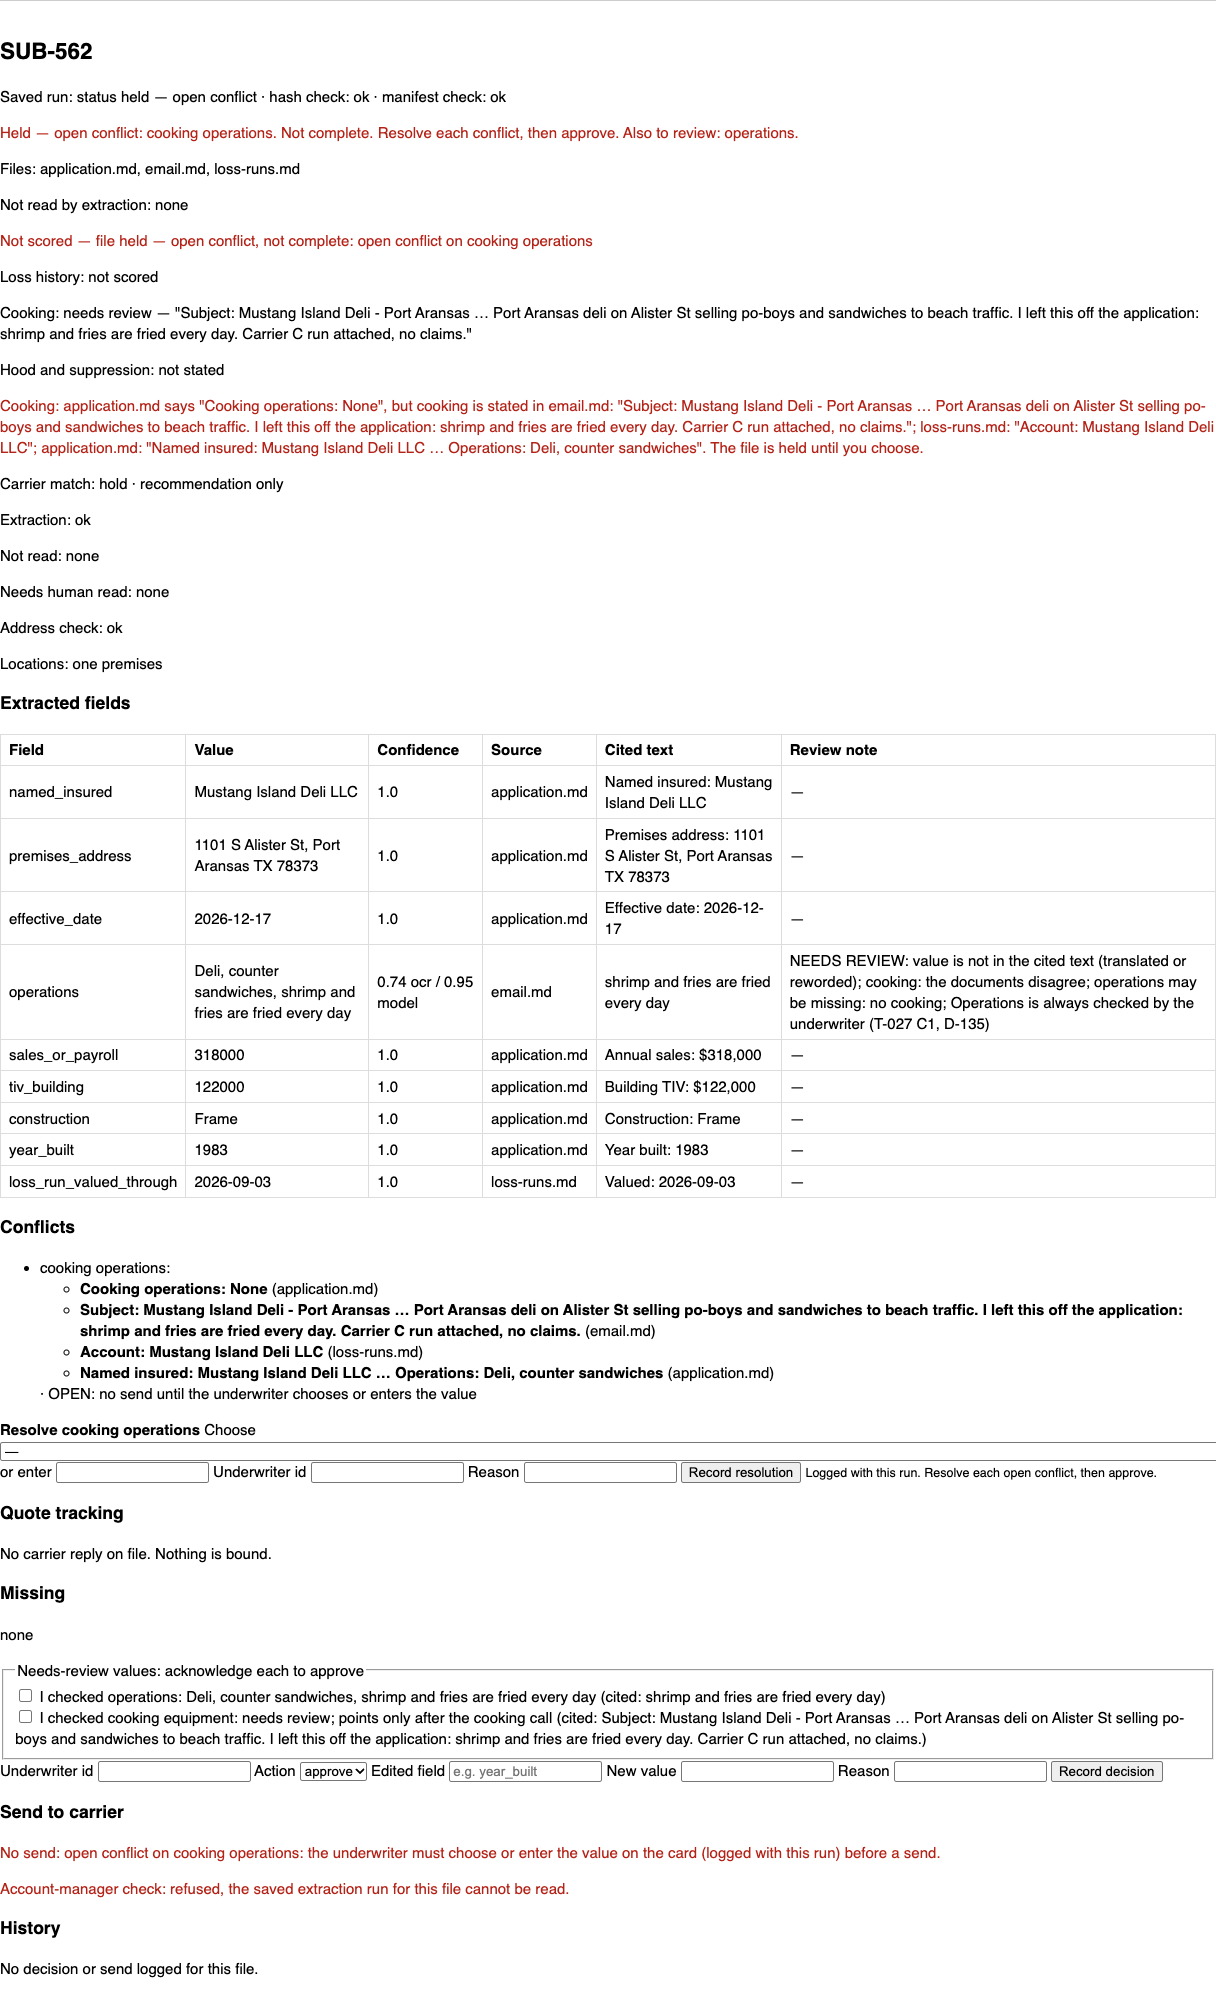
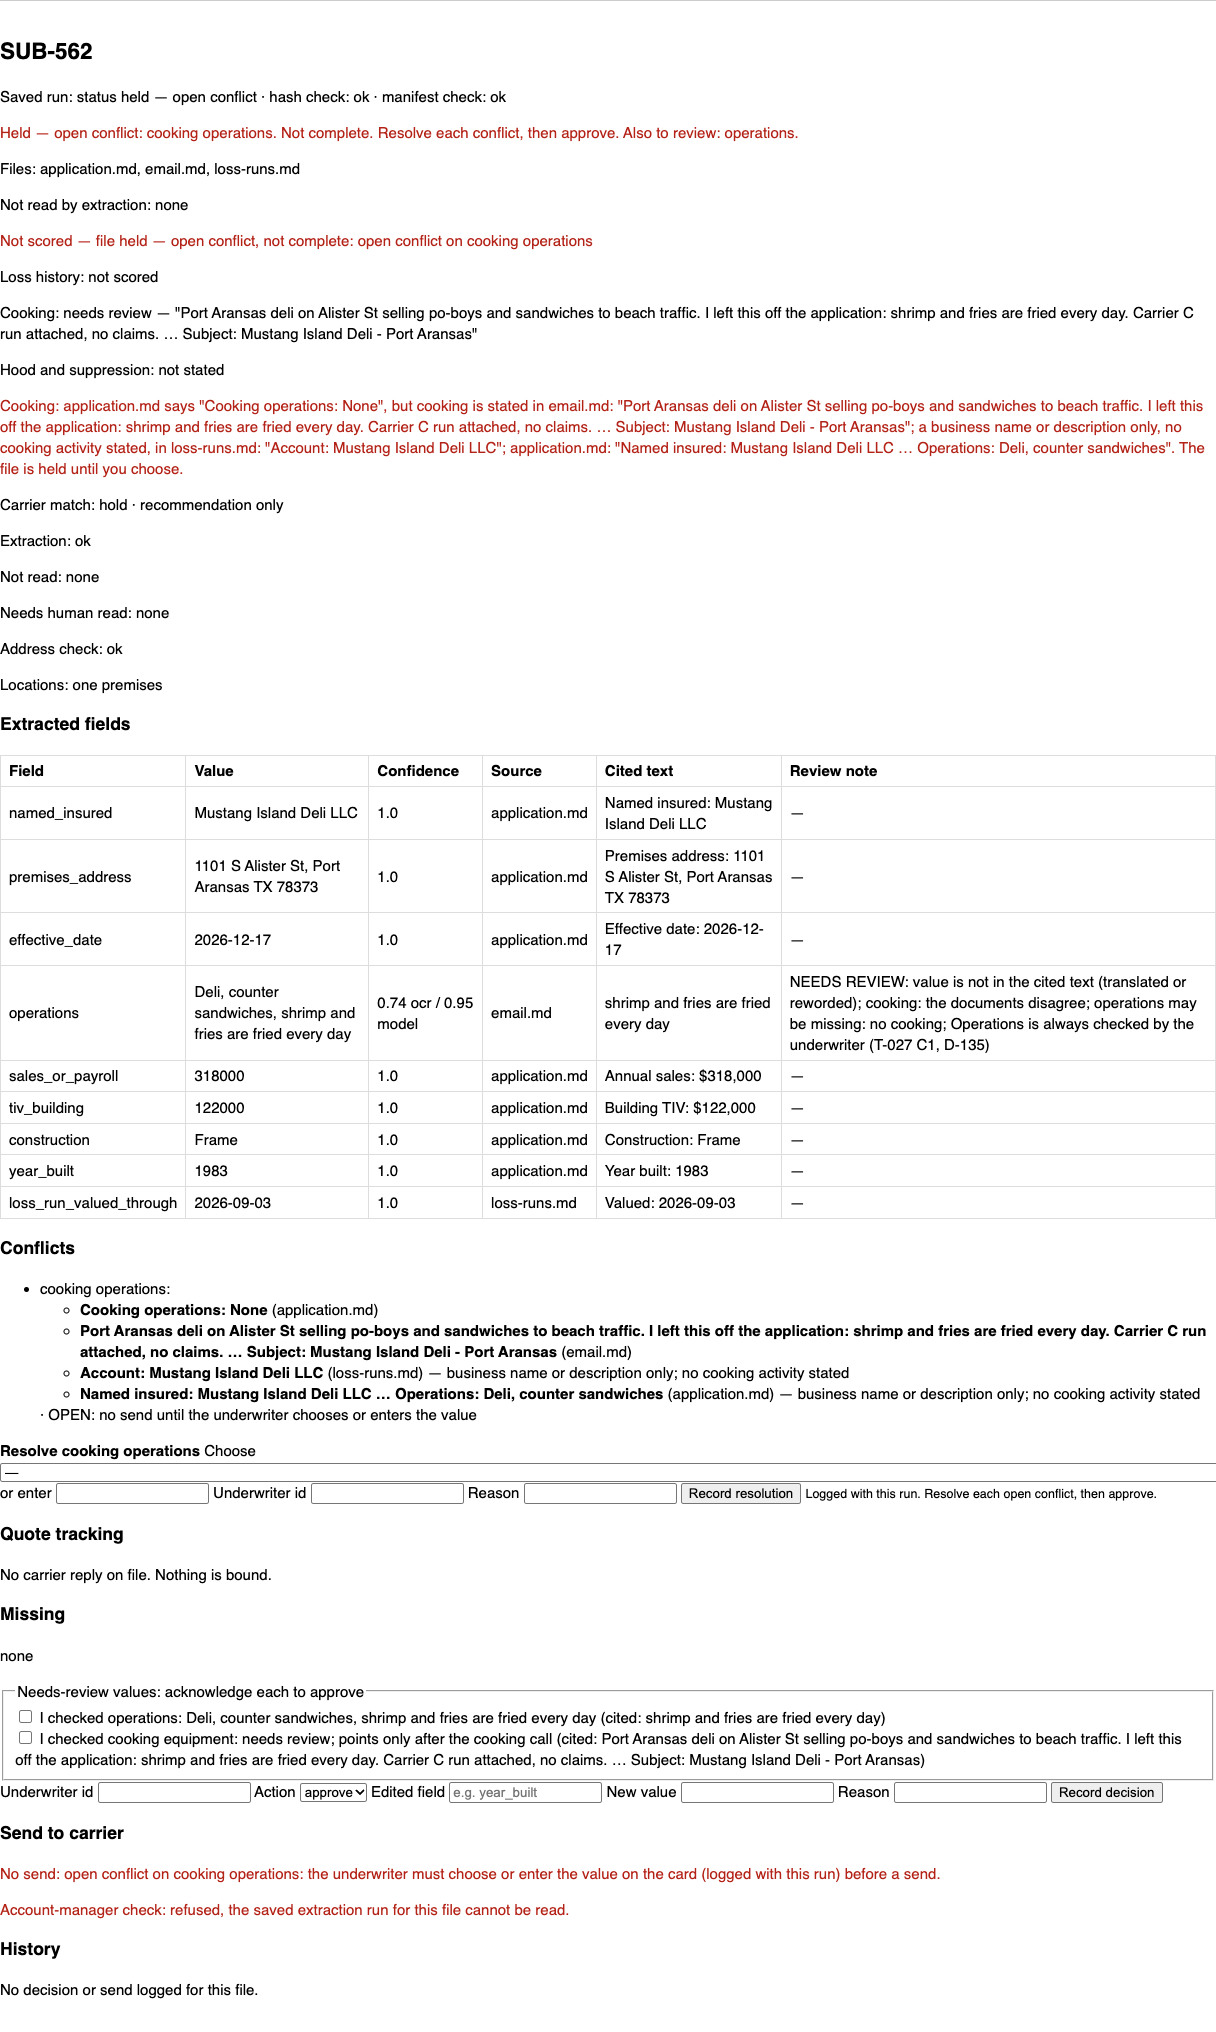
P-086: UI check H1 — name-only cooking quotes labelled 'no cooking activity stated', hazard passage first; screenshots retaken

diff --git a/underwriting_pipeline/ai/prepare.py b/underwriting_pipeline/ai/prepare.py
@@ -1163,6 +1163,22 @@ def _insured_names(name: str | None, texts: dict) -> list[str]:
 
 
 COOKING_QUOTES_MAX = 3  # P-086: quotes per document on a cooking conflict side
+# P-086 (UI check H1): a quote that names a cooking activity or equipment states the hazard; a business name or type alone ("Deli") does not.
+# Labels only: detection, holds and statuses do not read this. ponytail: a prefix list; a name such as "Pizza & Grill LLC" still counts as stated.
+_COOK_ACTIVITY = ("cook", "fry", "frial", "fries", "fried", "frit", "freid", "frei", "grill", "griddl", "broil", "plancha", "parrill", "comal", "stove", "estufa",
+                  "hotplate", "burner", "oven", "horno", "horne", "salamander", "smok", "barbec", "bbq", "barbac", "rotiss", "tandoor", "toast", "skillet", "steamer",
+                  "sous", "warm", "reheat", "bak", "boil", "cocin", "coce", "microwav", "microond", "ansul", "greas", "saut", "simmer", "roast", "brais", "induction",
+                  "crock", "kettle", "asar", "asad", "calent", "calien", "hervi", "fogon", "charcoal", "wok", "hood", "sear", "hob", "range", "kitchen", "galley")
+_COOK_BUSINESS_PHRASES = {"coffee shop", "food service", "food court", "food truck", "food trucks", "we serve", "food and drink", "food and beverage"}
+
+
+def cooking_activity(clause: str) -> bool:
+    """P-086: True when the clause names a cooking activity or equipment, not only a food business name or type."""
+    norm = _COOK_RANGE_SKIP.sub(" ", _cook_norm(clause))
+    phrase = _COOK_PHRASES.search(norm)
+    if phrase and phrase.group(0) not in _COOK_BUSINESS_PHRASES:
+        return True
+    return any(token.startswith(_COOK_ACTIVITY) for token in re.findall(r"[^\W\d_]+", norm))
 COOKING_QUOTE_CHARS = 360  # P-086 (code review): one quote never grows past this; a dense one-line scan is not quoted whole
 
 
@@ -1199,7 +1215,7 @@ def cooking_hits(texts: dict, skip: dict | None = None) -> list[dict]:
                 offset += len(line) + 1
             if hits and hits[-1]["source"] == doc:
                 continue
-        spans, word0 = [], None  # P-086 (D-169): every cooking clause in the document, so the hazard sentence is cited, not only the first word (B-530)
+        spans, strong, word0 = [], [], None  # P-086 (D-169): every cooking clause in the document, so the hazard sentence is cited, not only the first word (B-530)
         for clause in _CLAUSE.finditer(scan):
             word = cooking_word(clause.group(0))
             if not word:
@@ -1209,16 +1225,18 @@ def cooking_hits(texts: dict, skip: dict | None = None) -> list[dict]:
             le = text.find("\n", clause.end())
             le = len(text) if le < 0 else le
             start, end = max(ls, clause.start() - 120), min(le, clause.end() + 120)
+            active = cooking_activity(clause.group(0))
             if spans and start <= spans[-1][1] and max(end, spans[-1][1]) - spans[-1][0] <= COOKING_QUOTE_CHARS:  # overlapping windows join, up to a cap
                 spans[-1] = (spans[-1][0], max(end, spans[-1][1]))
-            elif not spans or start >= spans[-1][1]:
-                spans.append((start, end))
-            else:  # overlaps a full quote: start where it ends, so no text is quoted twice
-                spans.append((spans[-1][1], end))
+                strong[-1] = strong[-1] or active
+            else:
+                spans.append((spans[-1][1], end) if spans and start < spans[-1][1] else (start, end))  # never quote the same text twice
+                strong.append(active)
         if spans:  # still one hit per document (UI check H1); detection is unchanged, only the quote grows
-            shown = spans[:COOKING_QUOTES_MAX]
+            order = [i for i in range(len(spans)) if strong[i]] + [i for i in range(len(spans)) if not strong[i]]  # UI check H1: the hazard sentence first
+            shown = [spans[i] for i in order[:COOKING_QUOTES_MAX]]
             # start/end stay the first quote only, so text[start:end] never covers the uncited lines between quotes (B-365 L1); spans lists each
-            hits.append({"source": doc, "start": shown[0][0], "end": shown[0][1], "spans": shown, "more": len(spans) - len(shown),
+            hits.append({"source": doc, "start": shown[0][0], "end": shown[0][1], "spans": shown, "more": len(spans) - len(shown), "weak": not any(strong),
                          "quote": " … ".join(text[a:b].strip() for a, b in shown), "word": word0})
     return sorted(hits, key=lambda h: h["source"].lower().startswith("application"))  # stable: the email or schedule sentence comes before the application's own other lines
 
@@ -1241,7 +1259,7 @@ def apply_cooking_rule(merged: dict, conflicts: list, texts: dict, scans: dict |
             return
         first = {"value": line["quote"], "source": line["source"], "quote": line["quote"], "start": line["start"], "end": line["end"]} if line else {
             "value": row["value"], "source": row.get("source"), "quote": row.get("quote") or row["value"]}
-        conflicts.append(_conflict("cooking", [first] + [{"value": h["quote"], "source": h["source"], "quote": h["quote"], "start": h["start"], "end": h["end"], **({"spans": h["spans"], "more": h["more"]} if h.get("spans") else {})} for h in hits]))  # P-086: each cited clause; "more" is not in the value
+        conflicts.append(_conflict("cooking", [first] + [{"value": h["quote"], "source": h["source"], "quote": h["quote"], "start": h["start"], "end": h["end"], **({"spans": h["spans"], "more": h["more"], "weak": h["weak"]} if h.get("spans") else {})} for h in hits]))  # P-086: each cited clause; "more" is not in the value
         if row.get("value"):
             row["reason"] = f"{row['reason']}; {REASON_COOKING_CONFLICT}" if row.get("reason") else REASON_COOKING_CONFLICT
             row["needs_review"] = True
@@ -3175,6 +3193,9 @@ if __name__ == "__main__":
         h86 = cooking_hits({"email.md": mustang})
         assert len(h86) == 1 and "fried every day" in h86[0]["quote"] and "Mustang Island Deli" in h86[0]["quote"] and len(h86[0]["spans"]) == 2, h86
         assert all(mustang[a:b].strip() in h86[0]["quote"] for a, b in h86[0]["spans"]) and (h86[0]["start"], h86[0]["end"]) == h86[0]["spans"][0], h86
+        assert h86[0]["quote"].startswith("Port Aransas deli") and h86[0]["weak"] is False, h86  # UI check H1: the frying passage comes first
+        name_only = cooking_hits({"loss-runs.md": "Account: Mustang Island Deli LLC\nValued: 2026-09-03\n"})[0]
+        assert name_only["weak"] is True and cooking_activity("we fry wings") and not cooking_activity("Mustang Island Deli LLC") and not cooking_activity("coffee shop")
         many = "\n".join(f"Line {i}: we fry wings." for i in range(5))
         h86 = cooking_hits({"email.md": many})
         assert len(h86) == 1 and len(h86[0]["spans"]) == 3 and h86[0]["more"] == 2 and "more" not in h86[0]["quote"], h86

diff --git a/underwriting_pipeline/app/workbench.py b/underwriting_pipeline/app/workbench.py
@@ -1165,8 +1165,12 @@ def score_html(item: dict, report: dict, user: auth.User | None = None) -> list[
         if conflict.get("field") == "cooking" and conflict.get("resolution") != "resolved":
             sides = conflict.get("values") or [{}, {}]  # code review 5, UI check H1: the conflict's own sides, every document that states cooking
             first = sides[0]
-            others = "; ".join(f'{html.escape(str(v.get("source") or "a document"))}: "{html.escape(str(v.get("quote") or "—"))}"' for v in sides[1:])
-            out.append(f'<p class="bad">Cooking: {html.escape(str(first.get("source") or "a document"))} says "{html.escape(str(first.get("quote") or "—"))}", but cooking is stated in {others}. '
+            def _list(vs):
+                return "; ".join(f'{html.escape(str(v.get("source") or "a document"))}: "{html.escape(str(v.get("quote") or "—"))}"' for v in vs)
+            stated, named = [v for v in sides[1:] if not v.get("weak")], [v for v in sides[1:] if v.get("weak")]  # P-086 (UI check H1)
+            said = (f"but cooking is stated in {_list(stated)}" if stated else "but a food business word appears") + (
+                f"{'; ' if stated else ' in '}a business name or description only, no cooking activity stated, in {_list(named)}" if named else "")
+            out.append(f'<p class="bad">Cooking: {html.escape(str(first.get("source") or "a document"))} says "{html.escape(str(first.get("quote") or "—"))}", {said}. '
                        'The file is held until you choose.</p>')
     if pilot.active():
         out.append(f'<p class="banner">AI proposal — verify against the source. {html.escape(pilot.warning_text())}</p>')
@@ -1305,7 +1309,7 @@ def render(queue: list[dict], counts: dict | None = None, messages: dict | None 
                         "<li><b>{}</b> ({}){}{}</li>".format(
                             html.escape(str(v.get("value"))), html.escape(str(v.get("source") or "file not named")),
                             "" if v.get("quote") == v.get("value") else " — cited: " + html.escape(str(v.get("quote") or "—")),  # UI check M: the quote is not repeated when it is the value
-                            (f' <span class="bad">{side_note(v)}</span>' if side_note(v) else "") + (f" (and {int(v['more'])} more in this file)" if v.get("more") else ""),  # P-074 (D-132); P-086
+                            (f' <span class="bad">{side_note(v)}</span>' if side_note(v) else "") + (f" (and {int(v['more'])} more in this file)" if v.get("more") else "") + (" — business name or description only; no cooking activity stated" if v.get("weak") else ""),  # P-074 (D-132); P-086
                         )
                         for v in (item_c["values"] if isinstance(item_c["values"], list) else [])
                     ),

diff --git a/deliverables/ai-engineer/P-085-P-086-as-built.md b/deliverables/ai-engineer/P-085-P-086-as-built.md
@@ -35,3 +35,14 @@
 
 - The value an underwriter can choose for the email side is the joined quotes (verbatim pieces joined with " … "), as before P-086 when it was a single ±120-character window.
 - The quote count is per passage, not per line: windows that overlap on one line join, up to 360 characters.
+
+## @senior-underwriter UI check (2026-11-05): APPROVE WITH CHANGES — High fixed
+
+- **P-085 met.** "complete" appears nowhere on the held card.
+- **High (P-086), fixed.** The SUB-562 loss-run and application quotes held only the business name and type ("Mustang Island Deli LLC", "Operations: Deli"), but the card said cooking "is stated" there.
+  - Fix, labels only: `cooking_activity()` (prepare.py) marks a quote that names a cooking activity or equipment. A document whose quotes name none gets `weak: True`.
+  - The card lists those documents as "a business name or description only, no cooking activity stated". The conflict list marks each such side the same way.
+  - Activity passages are quoted first, so SUB-562's email side now starts with the frying sentence and the subject line comes after it (this also covers the Low finding).
+  - Detection, holds and statuses do not read `weak`. The T-128 replay again shows 0 non-cooking differences and the same conflict set and side counts.
+- **Medium, explained, no change:** "Account-manager check: refused, the saved extraction run for this file cannot be read" is a screenshot-sandbox artifact. The render uses no saved run file (D-069). On a real card the saved run exists.
+- **Low, backlog:** a short "fryer stated, hood not stated" note beside the conflict.
